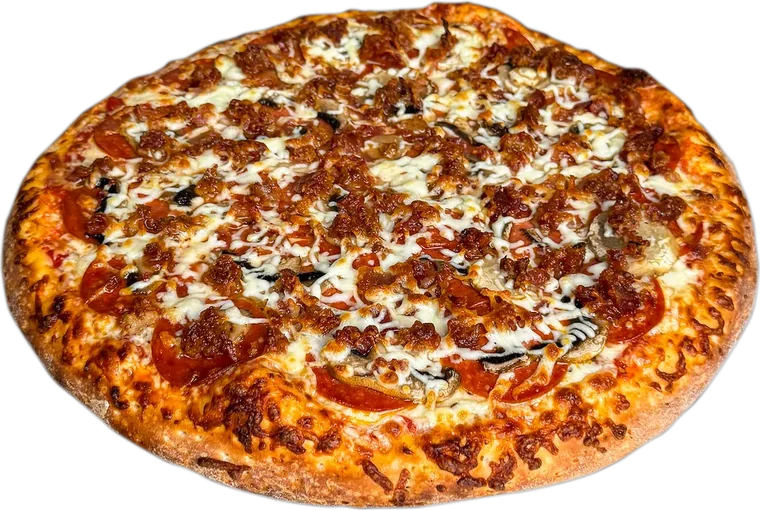
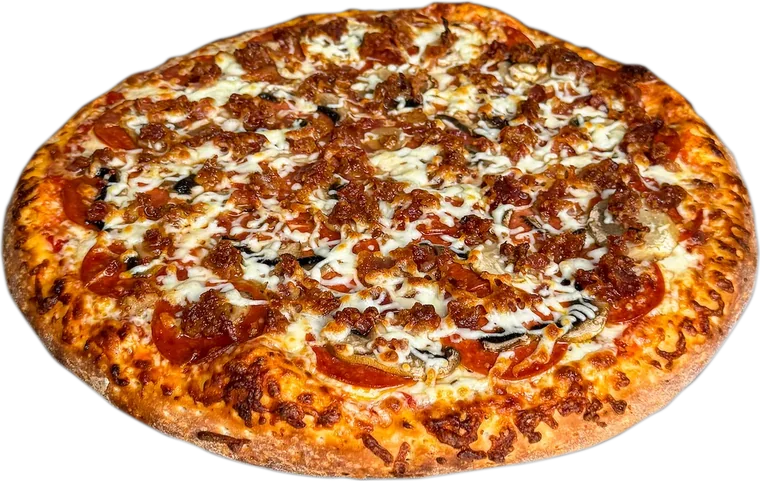
Angled pizza photos: all stretched to one shape (760x481) so every pizza is the same size; 20% cut, 99% fill
Claude-Session: https://claude.ai/code/session_01GwuNKQ4EhJTqGbbawQ6M8A

diff --git a/components/PizzaPhoto.js b/components/PizzaPhoto.js
@@ -4,7 +4,9 @@
 // (photos in public/images/pizzas/<style>/<slug>.webp, trimmed to the pizza):
 //   - "overhead": the whole pizza from above, centred, fitting the box.
 //   - "angled":   the side-on photo, top and bottom almost filling the box,
-//                 with about a quarter of the pizza cut off on the left.
+//                 with about a fifth of the pizza cut off on the left. Every
+//                 angled photo is stretched to the same 760x481 shape (the
+//                 Hawaiian / Meat Lover shot) so all pizzas look the same size.
 // The style used site-wide is DEFAULT_STYLE below. To compare on a phone,
 // add ?photos=overhead or ?photos=angled to a page address; that choice is
 // remembered for the rest of the visit.
@@ -45,8 +47,8 @@ export default function PizzaPhoto({ slug, alt = "" }) {
              --angled-cut:  how much of the angled pizza is cut off on the left
              --overhead-fill: how much of the box the overhead pizza fills */
         .pizza-photo {
-          --angled-fill: 96%;
-          --angled-cut: 25%;
+          --angled-fill: 99%;
+          --angled-cut: 20%;
           --overhead-fill: 94%;
           position: relative;
           width: 100%;
